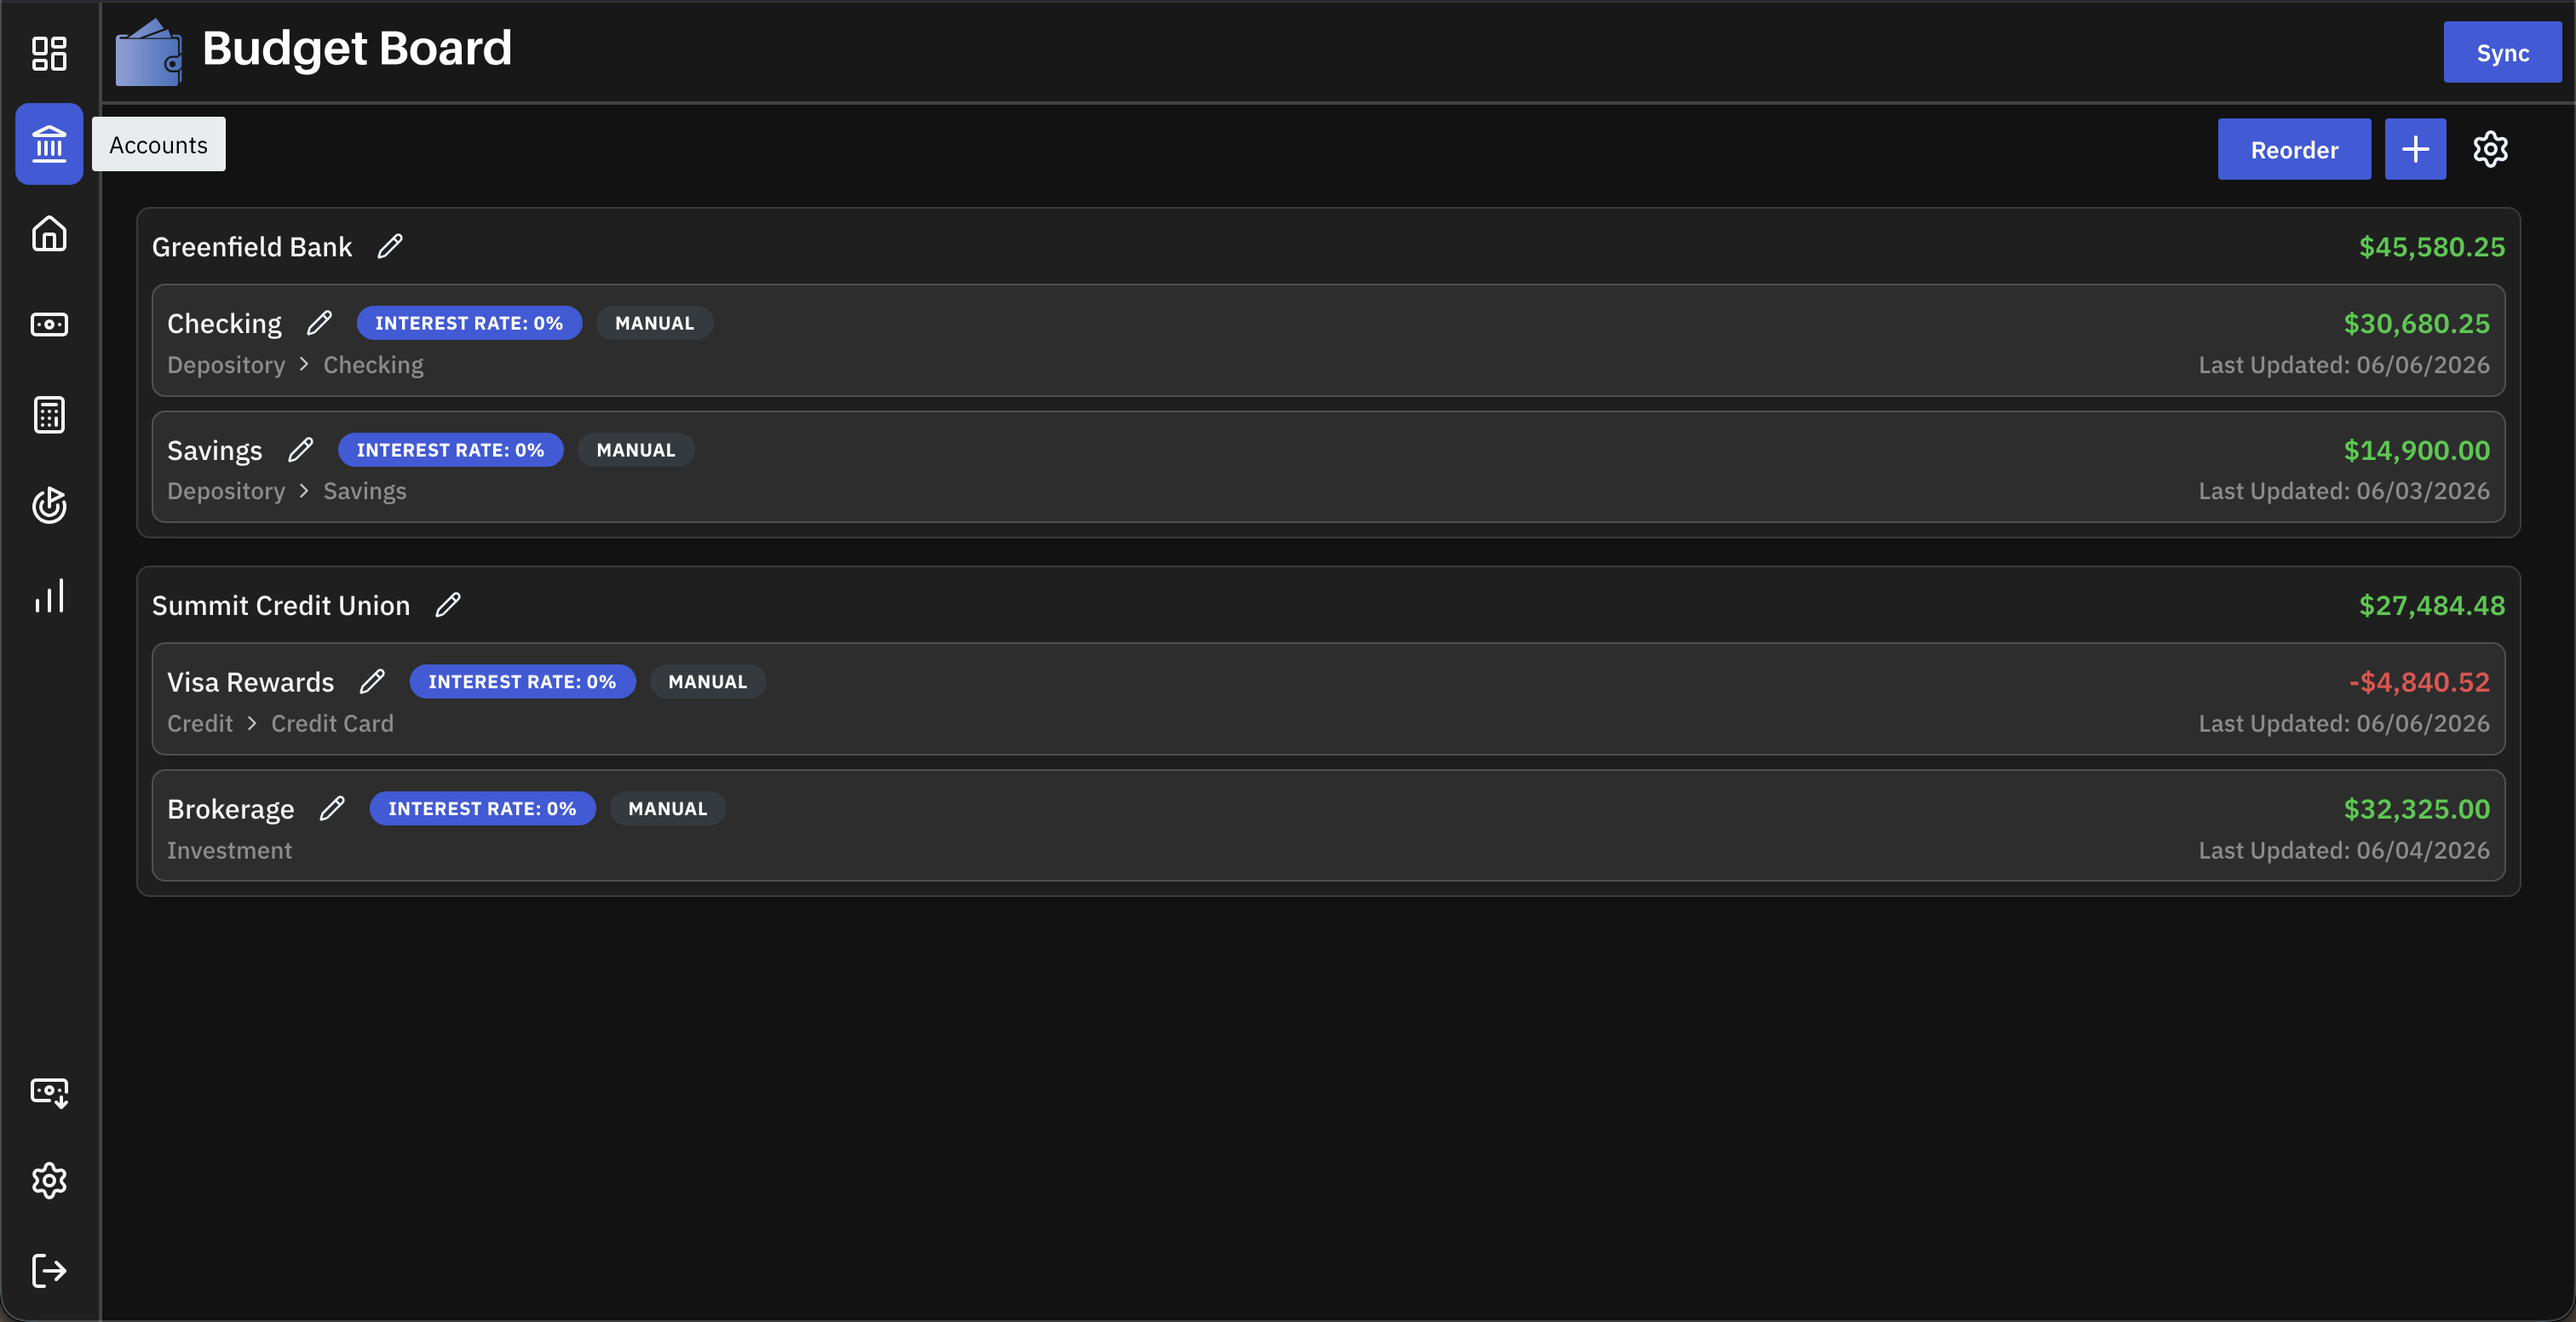
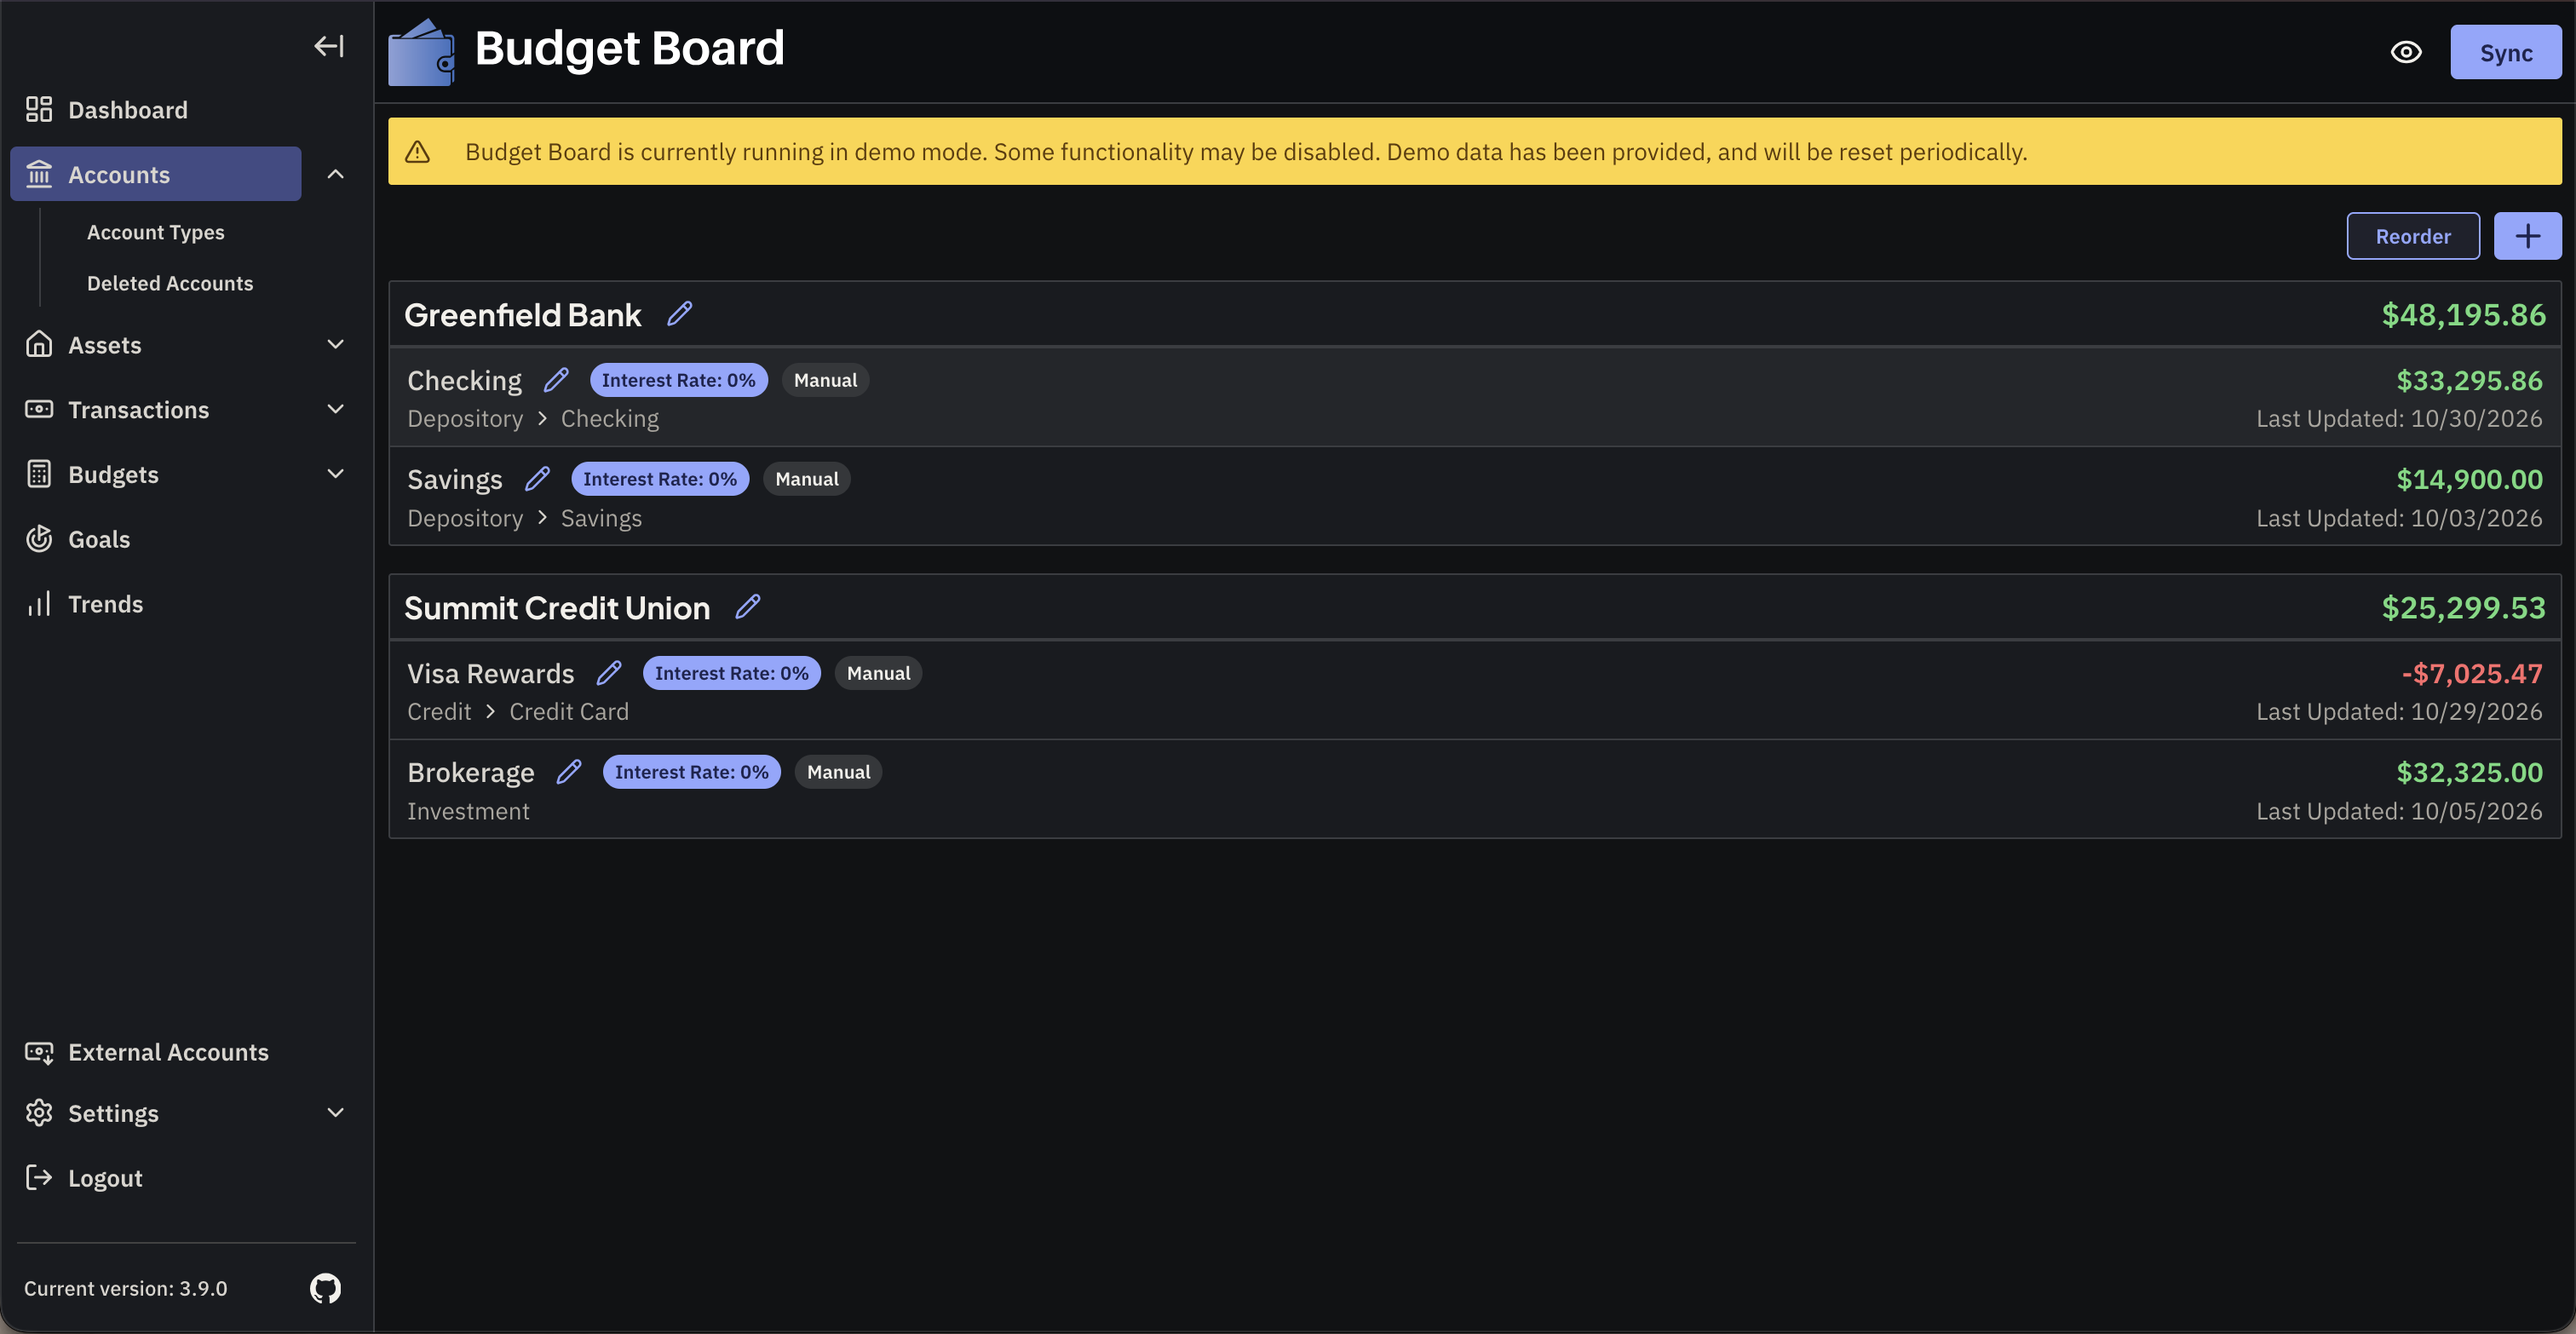
Last v3.9 updates (#1131)
* Update screenshots

* Add rollover to demo seed

Changed region(s): [[0.0, 0.0, 1.0, 0.6804], [0.0, 0.9588, 1.0, 1.0], [0.0, 0.7732, 0.0933, 0.8969]]

diff --git a/server/BudgetBoard.Service/DemoSeedService.cs b/server/BudgetBoard.Service/DemoSeedService.cs
@@ -508,23 +508,24 @@ public class DemoSeedService(
     private void SeedBudgetData(ApplicationUser user)
     {
         var today = DateTime.UtcNow;
-        var budgets = new (string Category, decimal Limit)[]
+        var budgets = new (string Category, decimal Limit, bool Rollover)[]
         {
-            ("Food & Dining", 500m),
-            ("Shopping", 300m),
-            ("Auto & Transport", 200m),
-            ("Entertainment", 100m),
-            ("Bills & Utilities", 250m),
-            ("Health & Fitness", 150m),
-            ("Income", 5000m),
+            ("Food & Dining", 500m, false),
+            ("Shopping", 300m, true),
+            ("Auto & Transport", 200m, true),
+            ("Entertainment", 100m, false),
+            ("Bills & Utilities", 250m, false),
+            ("Health & Fitness", 150m, false),
+            ("Income", 5000m, false),
         };
 
         // Seed budgets for the past 3 months
+        var rolloverStartMonth = new DateOnly(today.Year, today.Month, 1).AddMonths(-2);
         for (int monthOffset = 0; monthOffset < 3; monthOffset++)
         {
             var budgetMonth = new DateOnly(today.Year, today.Month, 1).AddMonths(-monthOffset);
 
-            foreach (var (category, limit) in budgets)
+            foreach (var (category, limit, rollover) in budgets)
             {
                 userDataContext.Budgets.Add(
                     new Budget
@@ -532,6 +533,7 @@ public class DemoSeedService(
                         Month = budgetMonth,
                         Category = category,
                         Limit = limit,
+                        RolloverStartMonth = rollover ? rolloverStartMonth : null,
                         UserID = user.Id,
                     }
                 );

diff --git a/server/BudgetBoard.Tests/DemoSeedServiceTests.cs b/server/BudgetBoard.Tests/DemoSeedServiceTests.cs
@@ -203,6 +203,20 @@ public class DemoSeedServiceTests
                     "Income",
                 ]
             );
+
+        var rolloverBudgets = budgets.Where(b => b.RolloverStartMonth.HasValue).ToList();
+        rolloverBudgets
+            .Select(b => b.Category)
+            .Distinct()
+            .Should()
+            .BeEquivalentTo(["Shopping", "Auto & Transport"]);
+        rolloverBudgets
+            .Select(b => b.RolloverStartMonth)
+            .Distinct()
+            .Should()
+            .ContainSingle()
+            .Which.Should()
+            .Be(new DateOnly(DateTime.UtcNow.Year, DateTime.UtcNow.Month, 1).AddMonths(-2));
     }
 
     [Fact]
